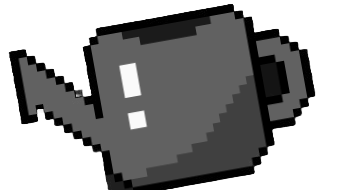
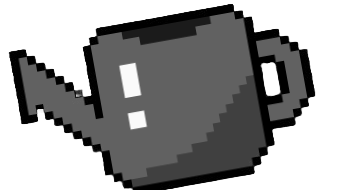
updated pics

Changed region(s): [[0.7715, 0.3158, 0.8309, 0.5263], [0.2967, 0.9211, 0.4154, 1.0]]

diff --git a/src/Main.py b/src/Main.py
@@ -90,7 +90,10 @@ class Water(pygame.sprite.Sprite):
                         pygame.transform.scale(pygame.image.load('can4.png').convert_alpha(), (140, 85)),
                         pygame.transform.scale(pygame.image.load('can3.png').convert_alpha(), (140, 85)),
                         pygame.transform.scale(pygame.image.load('can2.png').convert_alpha(), (140, 85)),
-                        pygame.transform.scale(pygame.image.load('can1.png').convert_alpha(), (140, 85))]
+                        pygame.transform.scale(pygame.image.load('can1.png').convert_alpha(), (140, 85)),
+                        pygame.transform.scale(pygame.image.load('can6.png').convert_alpha(), (140, 85)),
+                        pygame.transform.scale(pygame.image.load('can7.png').convert_alpha(), (140, 85)),
+                        pygame.transform.scale(pygame.image.load('can8.png').convert_alpha(), (140, 85))]
         self.current_sprite = 0
         self.image = self.sprites[self.current_sprite]
         self.rect = self.image.get_rect()
@@ -175,11 +178,14 @@ def refresh_screen():
 
     for tree in tree_list:
         screen.blit(tree.image, (tree.rect.x, tree.rect.y))
-
+    #timer
     font = pygame.font.SysFont('Impact', 60)
     minutes = (pygame.time.get_ticks() - start_ticks) // 60000 
     timer_text = font.render('YEARS PASSED: {}'.format(minutes), True, (255, 255, 255))
     screen.blit(timer_text, (20, 20))
+    #money counter
+    money_text = font.render('$: {}'.format(money),True,(255,255,0))
+    screen.blit(money_text,(1000,20))
     pygame.display.flip()
 
 
@@ -208,6 +214,7 @@ scroll = 0
 LOSE_NUTRIENTS = pygame.USEREVENT + 1
 pygame.time.set_timer(LOSE_NUTRIENTS, 1000)
 start_ticks = pygame.time.get_ticks()
+money = 0
 
 status = True
 while status:
@@ -234,6 +241,7 @@ while status:
                 watering_can = Water(water_pos[0], water_pos[1])
                 moving_sprites.add(watering_can)
                 watering = True
+                money -= 100
             elif item == 'fertilizer' and not fertilizing:
                 for tree in tree_list:
                     if tree.rect.x < event.pos[0] < tree.rect.x + tree.rect[2] and tree.rect.y < event.pos[0] \
@@ -244,6 +252,7 @@ while status:
                 fertilizing_bag = Fertilizer(fertilize_pos[0], fertilize_pos[1])
                 moving_sprites.add(fertilizing_bag)
                 fertilizing = True
+                money -= 100
                 for tree in tree_list:
                     if tree.rect.x < event.pos[0] < tree.rect.x + tree.rect[2] and tree.rect.y < event.pos[0] \
                             < tree.rect.y + tree.rect[3]:
